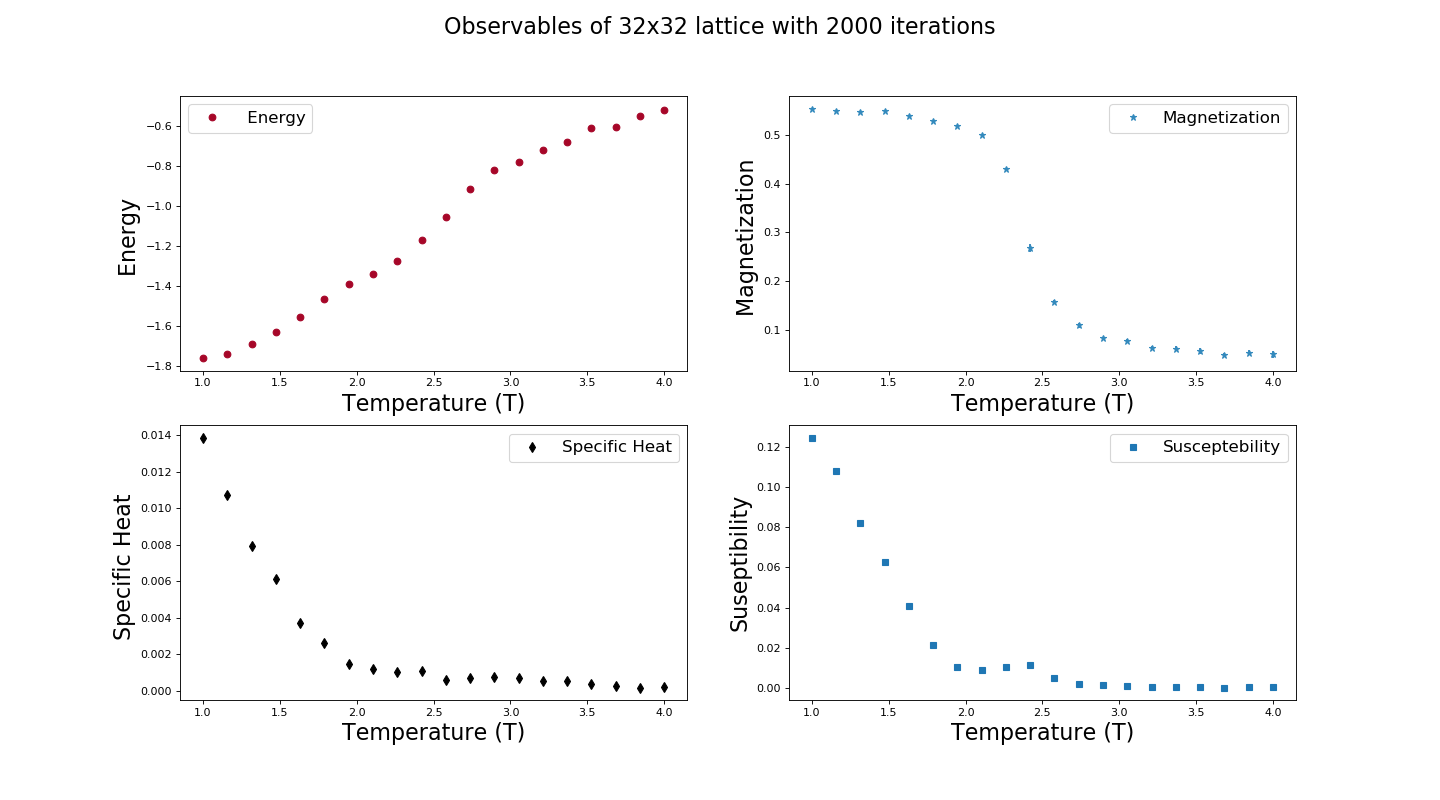
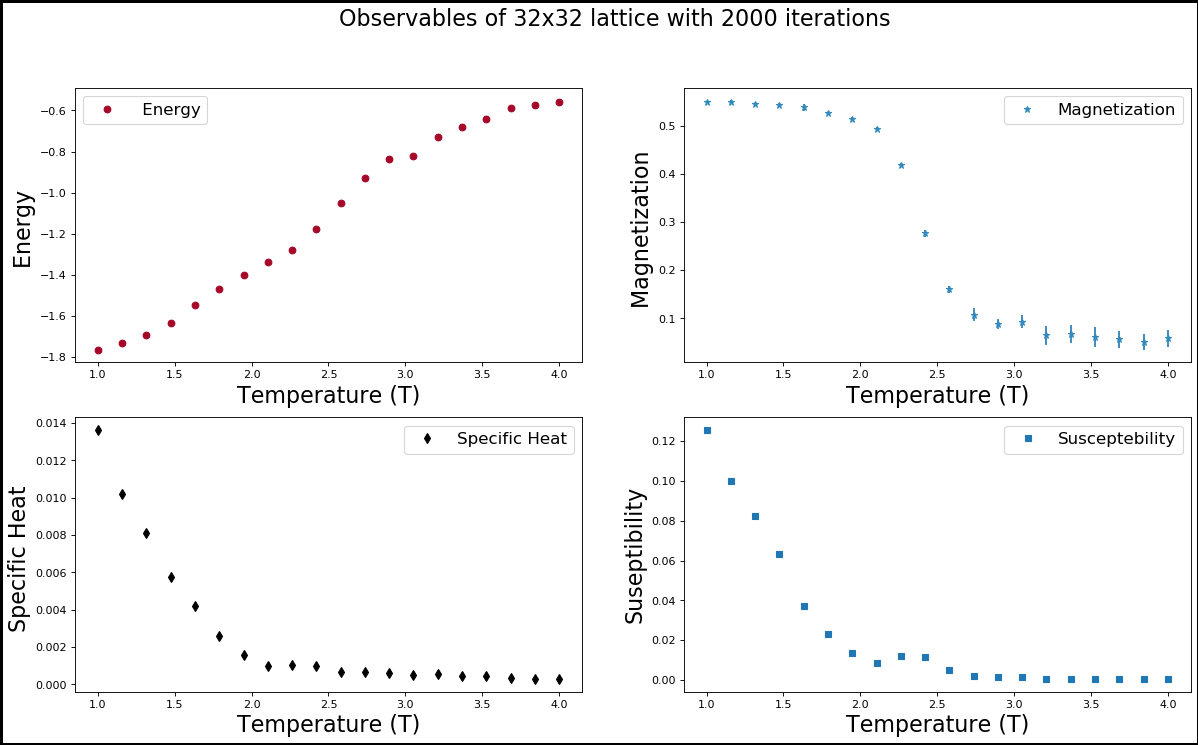
Update 25.03

diff --git a/SwendsenWang/SW_update.py b/SwendsenWang/SW_update.py
@@ -9,6 +9,7 @@ Created on Tue Mar 23 10:57:22 2021
 
 import numpy as np
 import pandas as pd
+import math
 from numpy import transpose as tr
 from copy import copy
 import matplotlib.pyplot as plt
@@ -109,7 +110,7 @@ def generate_cluster(Lattice, visited, K, root, search_cutoff = 500):
 
 ## one to answer: how do we search the lattice to search for viable clusters? :)
 def run_cluster_sim(Lattice, epochs, N, J, beta, 
-                    disp_cutoff = 100, visual = False, error=True):
+                    disp_cutoff = 100, visual = False):
     '''
     Parameters
     ----------
@@ -175,16 +176,19 @@ def run_cluster_sim(Lattice, epochs, N, J, beta,
             plt.show();
     data = np.array(data);
     
-    if error == True:
-        error_E = blocking_error(data[:,1], 10);
-        error_M = blocking_error(data[:,0], 10);
-        errors = np.array([error_E, error_M]);
-    else:
-        errors = []
+
+    error_E = blocking_error(data[:,1], 10);
+    error_M = blocking_error(data[:,0], 10);
+
+
     data = np.mean(data, axis = 0);
-    data = np.append(data, [susceptibility(data[0], data[2], beta)], axis=0);
-    data = np.append(data, [heat_capacity(data[1], data[3], beta)], axis=0);
+    data = np.append(data, [(data[2] - data[0]**2)*beta], axis=0);
+    data = np.append(data, [(data[3] - data[1]**2)*beta**2], axis=0);
     data = np.append(data, [binder(data[0], data[2])], axis=0);
+    
+    error_Q = (data[2]/data[0])*np.sqrt(((2*data[0]*error_M)/data[2])**2 + (error_M/data[0])**2)
+    
+    errors = np.array([error_E, error_M, error_Q]);
     return data, errors
 
 def run_clusters(Lattice, epochs, N, J, T, nT):
@@ -212,19 +216,19 @@ def run_clusters(Lattice, epochs, N, J, T, nT):
 
     '''
     data = np.zeros((7,nT));
-    errors = np.zeros((2,nT));
+    errors = np.zeros((3,nT));
     for tt in range(nT):
         print(tt,nT);
         beta = 1/T[tt];
         K = J*beta;
-        idata, ierrors = run_cluster_sim(Lattice, epochs, N, J, beta,  disp_cutoff=100, error=True);
+        idata, ierrors = run_cluster_sim(Lattice, epochs, N, J, beta,  disp_cutoff=100);
         data[:,tt] = idata;
         errors[:,tt] = ierrors;
     df1 = pd.DataFrame(tr(data), columns = ["mag", "ene", "mag^2", "ene^2", "susc", "sp_heat", "binder"])
-    df2 = pd.DataFrame(tr(errors), columns = ["mag", "ene"])
+    df2 = pd.DataFrame(tr(errors), columns = ["mag", "ene", "binder"])
     return df1, df2
 
-def run_binder(Lattice, epochs, Ls, J, T, nT):
+def run_binder(epochs, Ls, J, T, nT):
     '''
     
     Parameters
@@ -248,10 +252,14 @@ def run_binder(Lattice, epochs, Ls, J, T, nT):
     '''
     for L in Ls:
         N = (L,L);
-        data, _ = run_clusters(epochs, N, J, T, nT);
+        Lattice = 2 * np.random.randint(0, 2, N) - 1;
+        data, errors = run_clusters(Lattice, epochs, N, J, T, nT);
         plt.plot(T, data.binder, label='N=%s'%L);
+
+        plt.errorbar(T, data.binder, fmt='none', xerr=0, yerr= errors.binder);
         plt.legend(loc='best', fontsize=15); 
         plt.xlabel("Temperature (T)", fontsize=20);
         plt.ylabel("Binder Ratio (Q)", fontsize=20);
+    plt.axvline(x=2/math.log(1 + math.sqrt(2)), linestyle='--', color='r')
     plt.savefig("figures/Binder_{}".format(Ls));
     plt.show()

diff --git a/run.py b/run.py
@@ -13,17 +13,17 @@ Created on Tue Mar 23 14:14:50 2021
 '''
 
 # Metropolis Algo - enable with (Metropolis = True) and choose the mode
-Metropolis = True
+Metropolis = False
 # Modes:
-MetropolisObservables = True
+MetropolisObservables = False
 MetropolisBinder = False
 
 # Swendsen-Wang Cluster Algo
-Cluster = False
+Cluster = True
 # Modes:
 ClusterObservables = False
 ClusterSim = False
-ClusterBinder = False
+ClusterBinder = True
 
 
 if Cluster == True:

diff --git a/SwendsenWang/run_binder.py b/SwendsenWang/run_binder.py
@@ -20,7 +20,8 @@ nT = 30; J = 1
 epochs = 2000;
 nearest_neighbors = 1;
 
-Temperature = np.linspace(2.1, 2.4, nT)
 
-data = run_binder(epochs, L, J, Temperature, nT)
+Temperature = np.linspace(2, 3, nT);
+
+run_binder(epochs, L, J, Temperature, nT)
 
